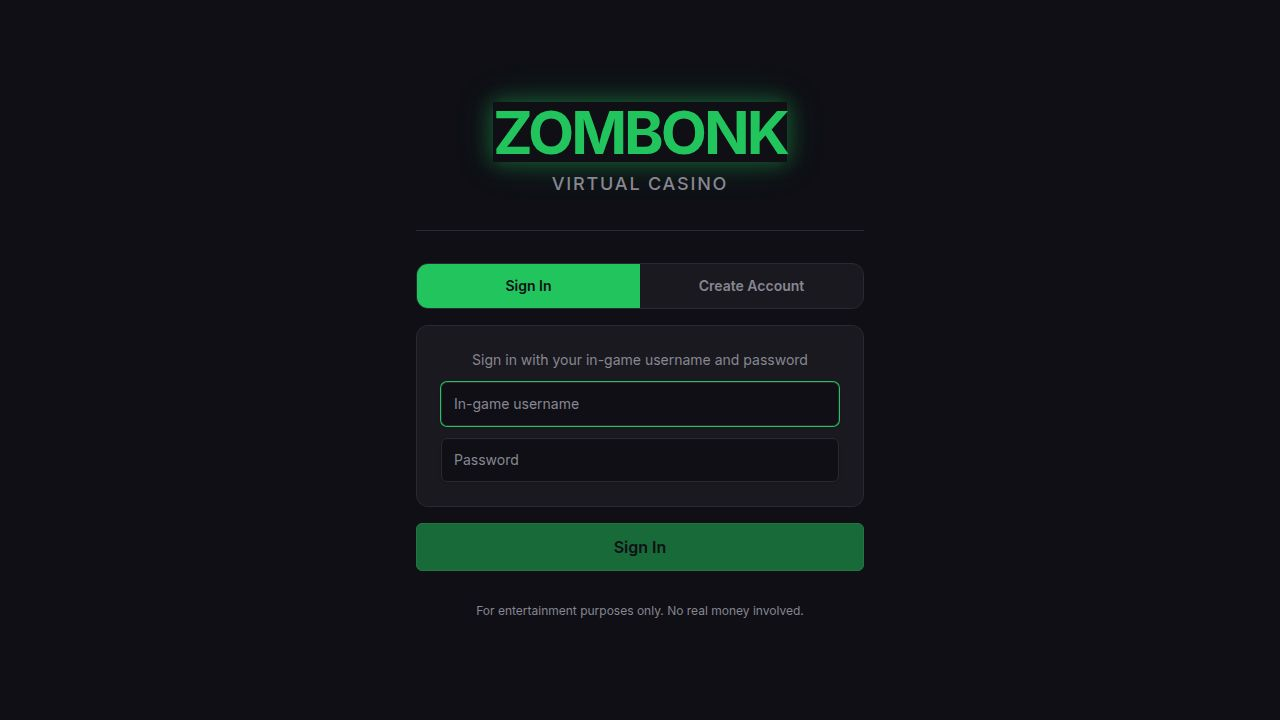
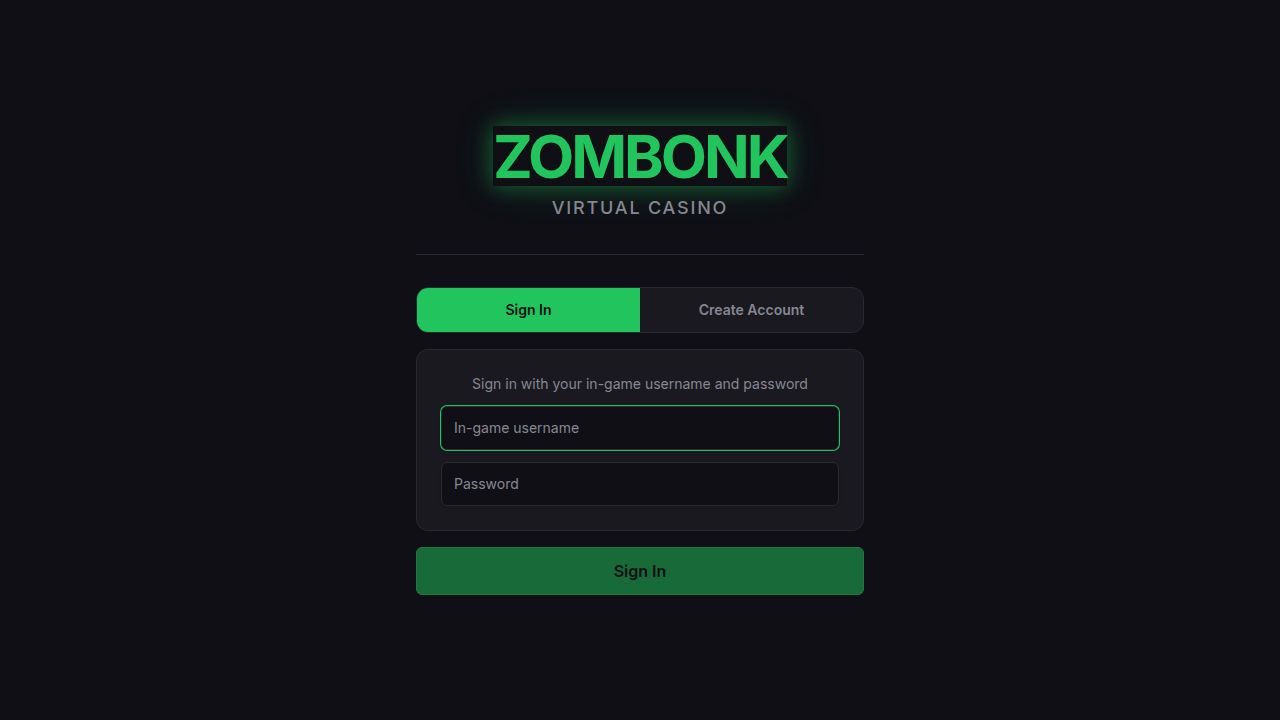
Improve display of partial returns for game outcomes
Adjust UI and game components to correctly display partial returns when a bet does not win but still returns coins, differentiating them from total losses.

Replit-Commit-Author: Agent
Replit-Commit-Session-Id: 5343110f-f03f-456e-9839-63cbd904c8cb
Replit-Commit-Checkpoint-Type: full_checkpoint
Replit-Commit-Event-Id: b22f08e6-039c-408c-b8cf-f3af9ef59928
Replit-Commit-Screenshot-Url: https://storage.googleapis.com/screenshot-production-us-central1/abaa9c05-fdec-4802-a75c-e06ca10dca3b/5343110f-f03f-456e-9839-63cbd904c8cb/GjTmolG
Replit-Helium-Checkpoint-Created: true

Changed region(s): [[0.3125, 0.3667, 0.6875, 0.8556], [0.375, 0.1222, 0.625, 0.3056], [0.5312, 0.3667, 0.625, 0.4583]]

diff --git a/artifacts/zombonk/src/pages/game.tsx b/artifacts/zombonk/src/pages/game.tsx
@@ -159,6 +159,7 @@ function PlinkoBoard({ multipliers, path, slot, isDropping, won, onComplete }: {
             <div key={i}
               className={`absolute flex items-center justify-center text-xs font-bold rounded border transition-all ${
                 isLanded && won ? "bg-primary border-primary text-primary-foreground" :
+                isLanded && m > 0 ? "bg-amber-400/20 border-amber-400 text-amber-400" :
                 isLanded ? "bg-destructive/20 border-destructive text-destructive" :
                 m > 1 ? "bg-primary/10 border-primary/30 text-primary" :
                 "bg-background border-border text-muted-foreground"
@@ -404,6 +405,10 @@ export default function GamePage() {
   const numMin = type === "dice" ? (config?.dice || 1) : type === "jackpot" ? 1 : (config?.min || 1);
   const numMax = type === "dice" ? ((config?.sides || 6) * (config?.dice || 1)) : type === "jackpot" ? (config?.tickets || 100) : (config?.max || 10);
 
+  // A partial return: the bet didn't "win", but some coins came back (e.g. plinko
+  // sub-1x slots, blackjack push). Shown distinctly so it doesn't read as a total loss.
+  const isPartialReturn = !!result && !result.won && result.payout > 0;
+
   return (
     <div className="min-h-screen bg-background">
       {/* ── Screen flash on result ── */}
@@ -411,7 +416,7 @@ export default function GamePage() {
         {result && (
           <motion.div
             key={`flash-${result.betId ?? result.payout}`}
-            className={`fixed inset-0 pointer-events-none z-50 ${result.won ? "bg-primary" : "bg-destructive"}`}
+            className={`fixed inset-0 pointer-events-none z-50 ${result.won ? "bg-primary" : isPartialReturn ? "bg-amber-400" : "bg-destructive"}`}
             initial={{ opacity: result.won ? 0.22 : 0.18 }}
             animate={{ opacity: 0 }}
             transition={{ duration: 0.45, ease: "easeOut" }}
@@ -1006,14 +1011,14 @@ export default function GamePage() {
               key={result.betId ?? result.payout}
               data-testid="text-result"
               initial={{ scale: 0.75, opacity: 0, y: 24 }}
-              animate={result.won
+              animate={(result.won || isPartialReturn)
                 ? { scale: 1, opacity: 1, y: 0 }
                 : { scale: [0.75, 1.02, 1], opacity: 1, y: 0, x: [0, -8, 8, -6, 6, -3, 3, 0] }
               }
               exit={{ scale: 0.85, opacity: 0, y: -10 }}
               transition={{ type: "spring", stiffness: 380, damping: 22 }}
               className={`relative rounded-xl p-5 text-center border-2 overflow-hidden ${
-                result.won ? "bg-primary/10 border-primary/50" : "bg-destructive/10 border-destructive/50"
+                result.won ? "bg-primary/10 border-primary/50" : isPartialReturn ? "bg-amber-400/10 border-amber-400/50" : "bg-destructive/10 border-destructive/50"
               }`}
             >
               {result.won && <WinParticles />}
@@ -1021,17 +1026,17 @@ export default function GamePage() {
                 initial={{ scale: 0.4, opacity: 0 }}
                 animate={{ scale: [0.4, 1.35, 0.92, 1.08, 1], opacity: 1 }}
                 transition={{ duration: 0.5, times: [0, 0.45, 0.65, 0.8, 1] }}
-                className={`text-4xl font-black mb-2 ${result.won ? "text-primary" : "text-destructive"}`}
+                className={`text-4xl font-black mb-2 ${result.won ? "text-primary" : isPartialReturn ? "text-amber-400" : "text-destructive"}`}
               >
-                {result.won ? "🎉 WIN!" : (type === "match_bet" || type === "trivia") ? "✅ PLACED" : "💸 LOSS"}
+                {result.won ? "🎉 WIN!" : isPartialReturn ? "↩️ PARTIAL RETURN" : (type === "match_bet" || type === "trivia") ? "✅ PLACED" : "💸 LOSS"}
               </motion.div>
               <p className="text-foreground font-medium text-sm">{result.message}</p>
-              {result.won && (
+              {(result.won || isPartialReturn) && (
                 <motion.p
                   initial={{ opacity: 0, scale: 0.8, y: 8 }}
                   animate={{ opacity: 1, scale: 1, y: 0 }}
                   transition={{ delay: 0.22, type: "spring", stiffness: 300 }}
-                  className="text-primary font-black text-2xl mt-2"
+                  className={`font-black text-2xl mt-2 ${result.won ? "text-primary" : "text-amber-400"}`}
                 >
                   +{result.payout.toLocaleString()} coins
                 </motion.p>

diff --git a/.agents/memory/partial-returns.md b/.agents/memory/partial-returns.md
@@ -1,0 +1,25 @@
+---
+name: Partial returns (won vs payout decoupling)
+description: In Zombonk, payout is independent of the won flag; UI must surface won=false & payout>0 as a partial return
+---
+
+# Partial returns
+
+`won` and `payout` are independent in the play handler. The balance is always
+credited `newBalance = balance - wager + payout` regardless of `won`, so a bet
+can lose (`won=false`) yet return coins (`payout>0`).
+
+Cases where `won=false` but `payout>0`:
+- **plinko** — `won = multiplier > 1`, so any sub-1x slot (e.g. 0.3x, 0.5x)
+  returns partial coins while `won` is false.
+- **blackjack push** — `won=false`, `payout=wager` (full wager returned).
+- Any mod-configured game whose outcome multiplier is between 0 and 1.
+
+**Rule:** UI must treat `!result.won && result.payout > 0` as a distinct
+"partial return" state (show the returned coins, neutral/amber styling) — never
+as a total loss. Keying off this universal condition makes the display fix
+game-agnostic; don't special-case per game type.
+
+**Why:** users reported "partial returns don't work on plinko" — the coins were
+actually credited server-side, but the result panel only showed payout when
+`won` was true and otherwise rendered "LOSS", hiding the returned coins.

diff --git a/.agents/memory/MEMORY.md b/.agents/memory/MEMORY.md
@@ -1,3 +1,4 @@
 - [Client IP behind Replit proxy](replit-client-ip.md) — public edge overrides client XFF with real IP (leftmost); trusting leftmost XFF is spoof-safe for real traffic, localhost:80 is not.
 - [Rig visual consistency](rig-visual-consistency.md) — server must regenerate game visuals to match rigged won; slots/scratch_card/crash/plinko recompute win client-side.
 - [Mod game-edit contract](mod-game-edit-contract.md) — request schemas must accept null where responses emit null; guard empty Drizzle updates.
+- [Partial returns](partial-returns.md) — payout is independent of won; UI must show won=false & payout>0 as a partial return, not a loss.